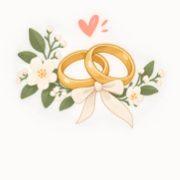
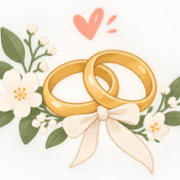
파비콘 크롭 조정 — 잘려 보이던 문제 수정
직전 커밋에서 작은 크기(16/32px)만 반지를 크게 잡아 따로 잘랐는데,
반지가 프레임에 닿아 잘린 것처럼 보였습니다.

세 크기 모두 같은 크롭으로 바꿨습니다 — 원본 1254x1254 에서 (259, 277)
부터 765px 정사각. 그림의 세로를 꽉 채우고 좌우 꽃 끝만 살짝 정리한
값이라, 반지·꽃·하트가 온전히 들어가면서 32px 에서도 반지가 읽힙니다.

세 가지(반지만 / 세로꽉 / 그림전체)를 32px 로 나란히 뽑아 비교했고,
그림 전체는 반지가 뭉개지고 반지만 잡으면 잘려 보여서 가운데를 택했습니다.

파비콘은 브라우저가 특히 오래 캐시하므로 해당 URL 의 ?v 를 24 로 올렸습니다
(사진 자산은 ?v=23 그대로).

확인: 세 페이지 파비콘 링크 3개씩 로드 실패 0건, 밝은 탭/어두운 탭 양쪽
육안 확인, 갤러리 19장 정상.

Assisted-by: Claude Code (Opus 5)

diff --git a/alt/index.html b/alt/index.html
@@ -13,9 +13,9 @@
 <meta property="og:image" content="https://suyoung-lee.github.io/wedding/assets/og.jpg?v=23">
 <meta name="description" content="2026년 12월 12일 토요일 오후 4시, 세인트메리엘 1층 메리엘홀">
 <meta name="robots" content="noindex, nofollow">   <!-- 보관용 이전 배치 -->
-<link rel="icon" type="image/png" sizes="32x32" href="../assets/favicon-32.png?v=23">
-<link rel="icon" type="image/png" sizes="16x16" href="../assets/favicon-16.png?v=23">
-<link rel="apple-touch-icon" sizes="180x180" href="../assets/apple-touch-icon.png?v=23">
+<link rel="icon" type="image/png" sizes="32x32" href="../assets/favicon-32.png?v=24">
+<link rel="icon" type="image/png" sizes="16x16" href="../assets/favicon-16.png?v=24">
+<link rel="apple-touch-icon" sizes="180x180" href="../assets/apple-touch-icon.png?v=24">
 <meta name="theme-color" content="#fbfaf7">
 
 <link rel="preconnect" href="https://fonts.googleapis.com">

diff --git a/alt2/index.html b/alt2/index.html
@@ -13,9 +13,9 @@
 <meta property="og:image" content="https://suyoung-lee.github.io/wedding/assets/og.jpg?v=23">
 <meta name="description" content="2026년 12월 12일 토요일 오후 4시, 세인트메리엘 1층 메리엘홀">
 <meta name="robots" content="noindex, nofollow">   <!-- 비교용 미리보기 -->
-<link rel="icon" type="image/png" sizes="32x32" href="../assets/favicon-32.png?v=23">
-<link rel="icon" type="image/png" sizes="16x16" href="../assets/favicon-16.png?v=23">
-<link rel="apple-touch-icon" sizes="180x180" href="../assets/apple-touch-icon.png?v=23">
+<link rel="icon" type="image/png" sizes="32x32" href="../assets/favicon-32.png?v=24">
+<link rel="icon" type="image/png" sizes="16x16" href="../assets/favicon-16.png?v=24">
+<link rel="apple-touch-icon" sizes="180x180" href="../assets/apple-touch-icon.png?v=24">
 <meta name="theme-color" content="#fbfaf7">
 
 <link rel="preconnect" href="https://fonts.googleapis.com">

diff --git a/index.html b/index.html
@@ -12,9 +12,9 @@
 <meta property="og:url" content="https://suyoung-lee.github.io/wedding/">
 <meta property="og:image" content="https://suyoung-lee.github.io/wedding/assets/og.jpg?v=23">
 <meta name="description" content="2026년 12월 12일 토요일 오후 4시, 세인트메리엘 1층 메리엘홀">
-<link rel="icon" type="image/png" sizes="32x32" href="assets/favicon-32.png?v=23">
-<link rel="icon" type="image/png" sizes="16x16" href="assets/favicon-16.png?v=23">
-<link rel="apple-touch-icon" sizes="180x180" href="assets/apple-touch-icon.png?v=23">
+<link rel="icon" type="image/png" sizes="32x32" href="assets/favicon-32.png?v=24">
+<link rel="icon" type="image/png" sizes="16x16" href="assets/favicon-16.png?v=24">
+<link rel="apple-touch-icon" sizes="180x180" href="assets/apple-touch-icon.png?v=24">
 <meta name="theme-color" content="#fbfaf7">
 
 <link rel="preconnect" href="https://fonts.googleapis.com">
